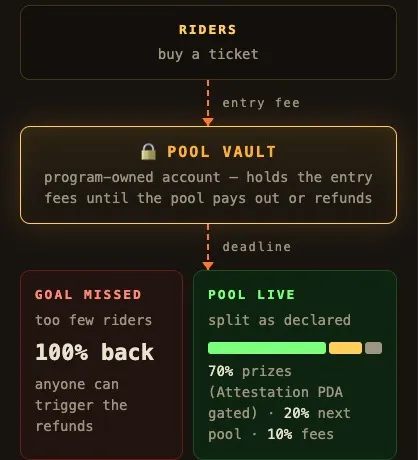
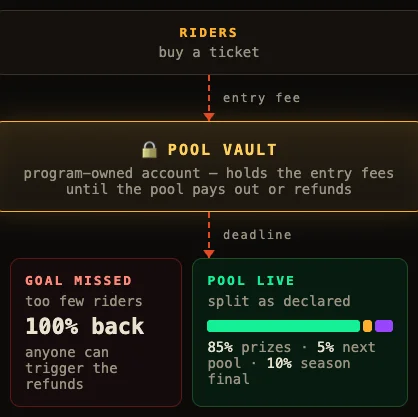
fix(pitchdeck): update slide 5 escrow diagrams and Merkle root label to 85/5/10

diff --git a/landing/src/pitchdeck/data.js b/landing/src/pitchdeck/data.js
@@ -161,7 +161,7 @@ export const SLIDES = [
         ${shot('wp-diagram.webp', 'v-main diagram', 'Where the money goes')}
         ${shot('escrow-flow.webp', 'v-sub', 'How the escrow works')}
         <canvas class="glyph g1" data-scene="proof" role="img" aria-label="Four 15-second batches hash up into one Merkle root, which turns verified"></canvas>
-        <div class="vblock" aria-hidden="true">✓ Attestation<small>PDA gated · pays only verified rides</small></div>
+        <div class="vblock" aria-hidden="true">✓ Merkle root<small>PDA gated · pays only verified rides</small></div>
       </div>` },
 
   { layout: 'chain', id: 'chain',
